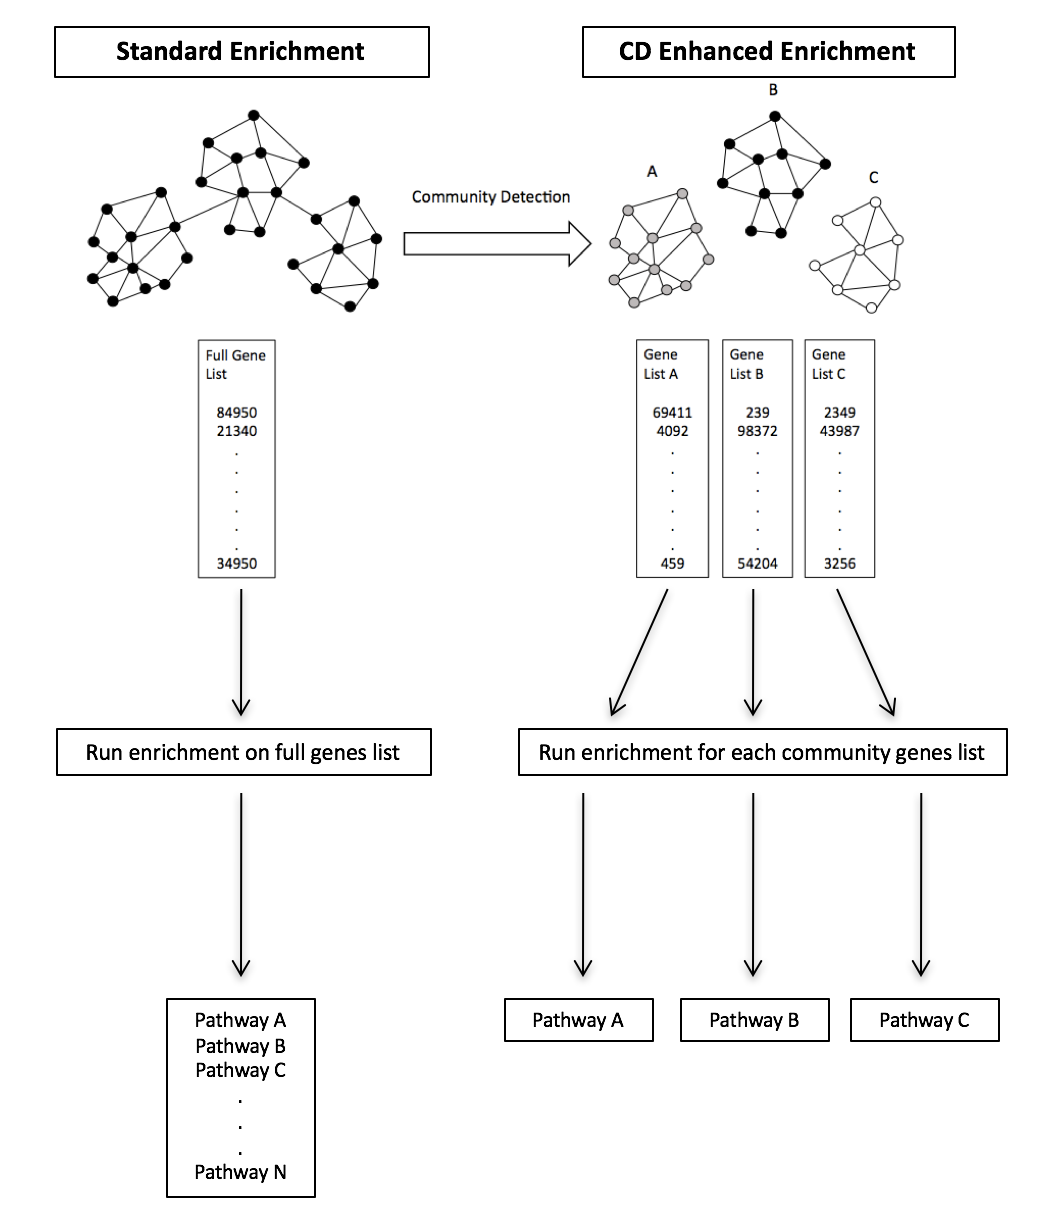
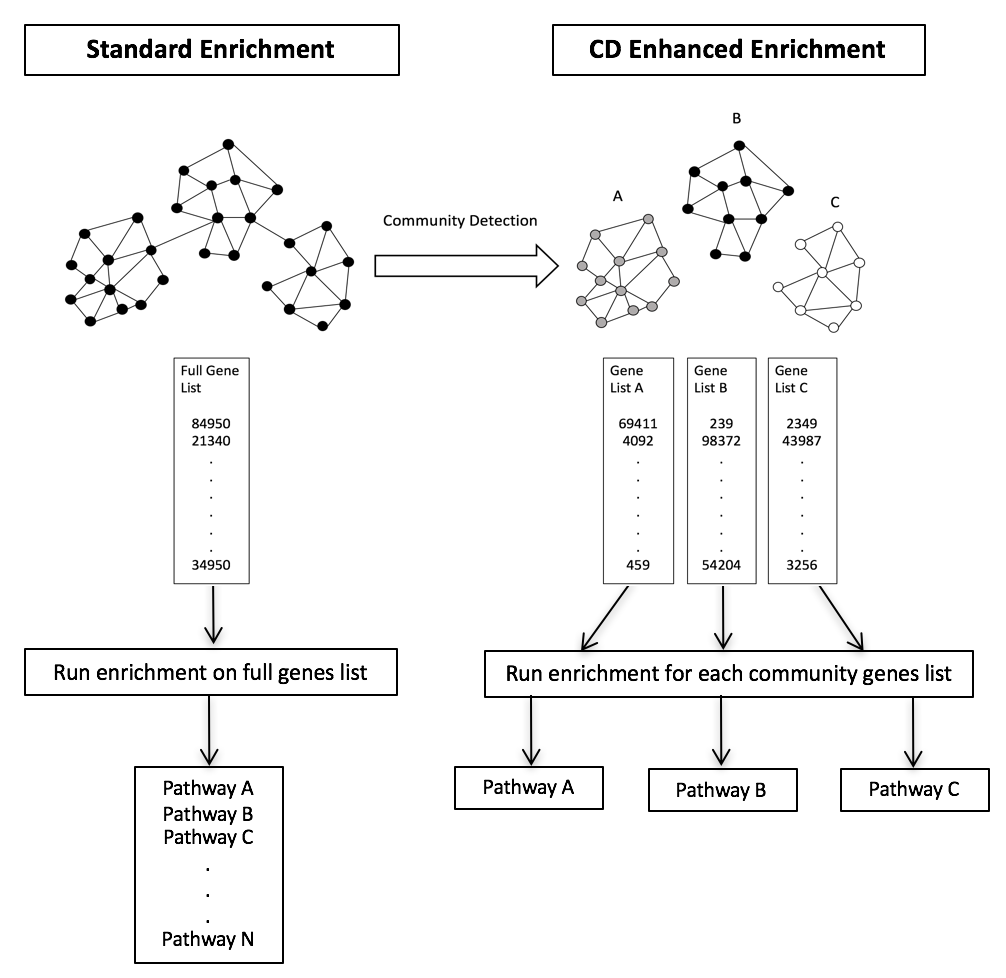
Update flowchart (#22)
* updating flow chart image

reducing size of arrows

* adding in-line figure to README

Changed region(s): [[0.0308, 0.0, 0.9553, 1.0], [0.5855, 0.4908, 0.6163, 0.5521], [0.5239, 0.0307, 0.5547, 0.0613]]

diff --git a/README.md b/README.md
@@ -14,6 +14,8 @@ is performed before enrichment analysis. In particular, one can select
 fastgreedy, walktrap, infomap, or multilevel as the possible clustering method.
 Again, power and average false positive are returned. 
 
+![GEA Flowchart](Paper_Figs/flow_chart.png?raw=true)
+
 ## Data Download
 
 Data for this project can be downloaded using the script and URL text file
